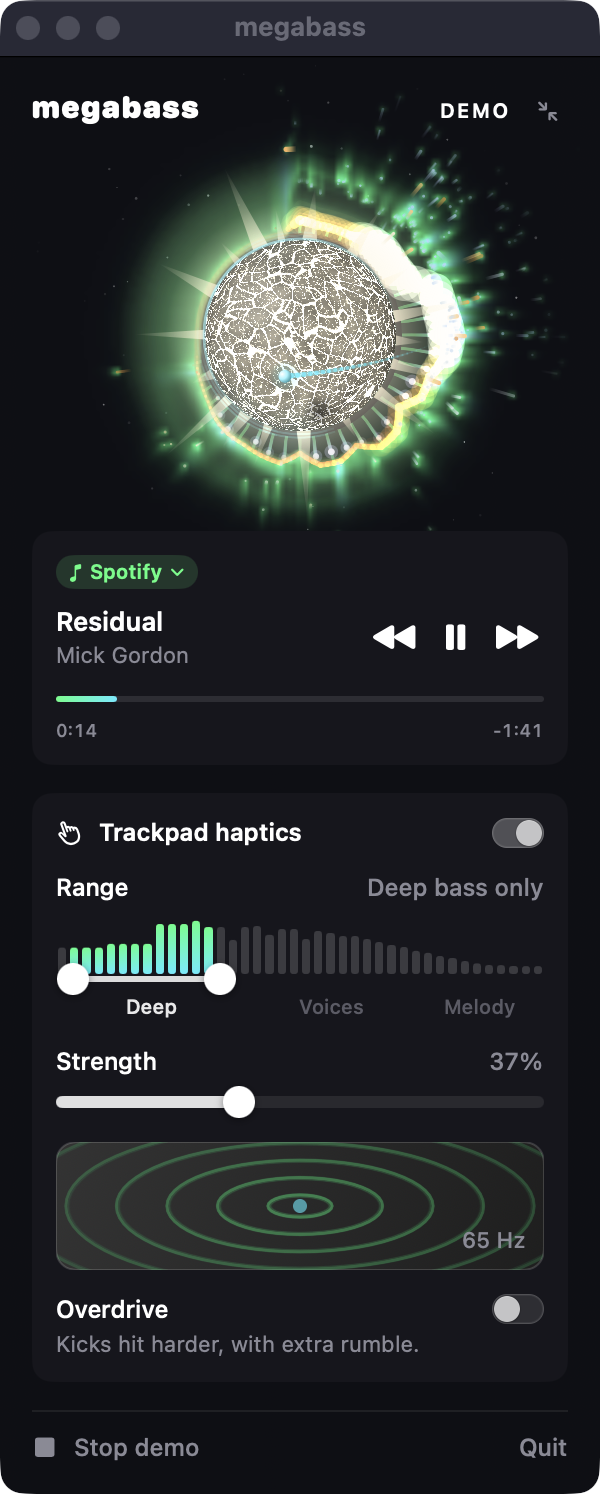
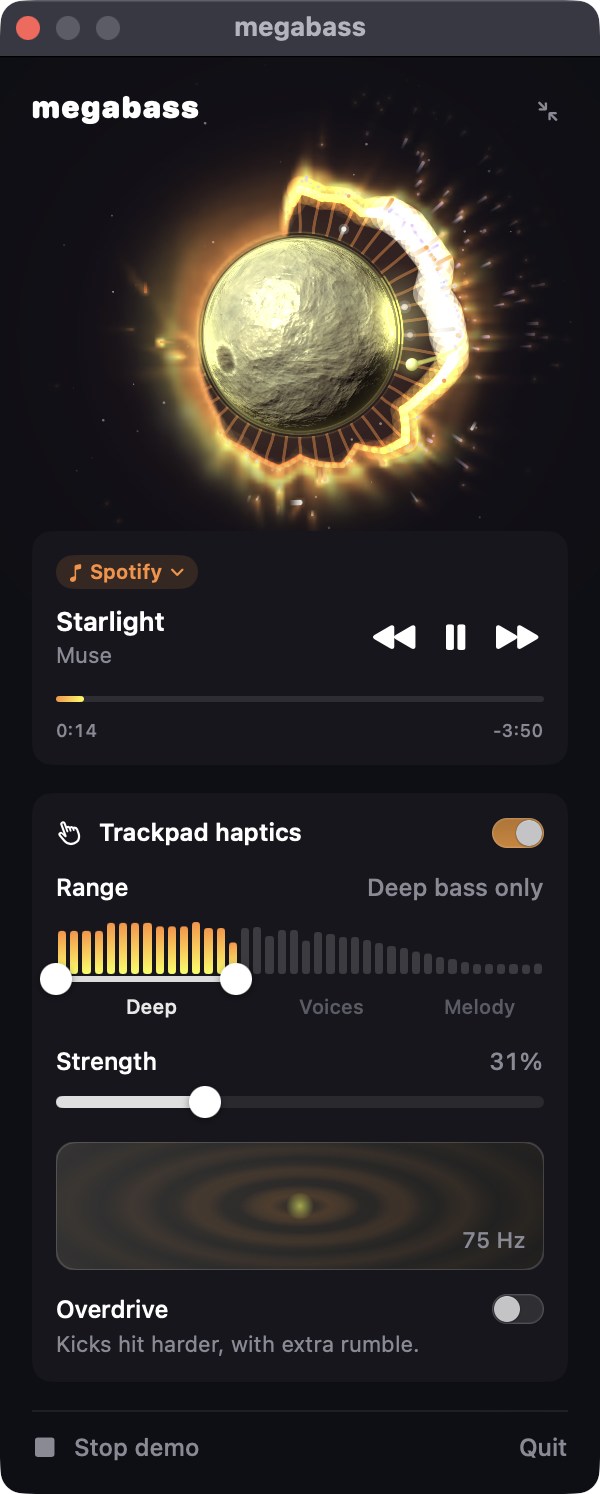
Headbang on the beat: the planet nods toward you at the song's tempo
- Tempo: kick onsets feed a beat clock (median of folded gaps for coarse
  moves, phase-locked loop for the fine tempo); syncopated half-beat kicks
  count as on the grid, so the lock holds (demo: 97-101 BPM vs 100).
- Nod: each beat tips the planet's top toward the viewer on a damped spring
  (pitch in the sphere map, harder with Overdrive); rings and moon orbits
  open with it. Side rock across two beats and a small dip stay.
- Spin no longer jerks: steady longitude, 0.6-2.6x base speed, ~4 s inertia.
- Bass mode now marks kicks in the voice status, so kickPulse (headbang,
  ring ripples, moon shocks) works without Overdrive.
- Nod-only map rebuilds keep buffers, lighting and normals.

diff --git a/Sources/MegaBass/PlanetView.swift b/Sources/MegaBass/PlanetView.swift
@@ -2,9 +2,9 @@ import AppKit
 import MegaBassCore
 import SwiftUI
 
-/// The planet's rotation: a heavy body. Its speed follows the song's intensity with inertia; with
-/// Overdrive on, every kick makes it headbang (a forward nod on a damped spring). Hovering turns
-/// the power icon to face you.
+/// The planet's rotation: a heavy body. Its speed follows the song's intensity with slow inertia.
+/// On every beat it headbangs: the top tips toward you on a damped spring (harder with Overdrive),
+/// while the spin itself stays steady. Hovering turns the power icon to face you.
 @MainActor
 final class PlanetSpin {
     static let shared = PlanetSpin()
@@ -15,13 +15,24 @@ final class PlanetSpin {
     private var nod = 0.0, nodV = 0.0, lastKick = 0.0
     private var last = 0.0
 
+    // Beat tracking: tempo from kick intervals (folded into 60-180 BPM, median), and a beat clock
+    // phase-locked to kicks that land near a predicted beat, so it keeps time through weak kicks.
+    private(set) var bpm = 0.0
+    private var period = 0.5, beatPhase = 0.0, beatCount = 0
+    private var kickTimes: [Double] = []
+    /// Share of recent kicks off the beat grid (beats and half beats); high means the tempo is lost.
+    private var miss = 1.0
+    /// Headbang body motion, applied to the whole planet system: sideways rock and a downward bob.
+    private(set) var wobble = 0.0, bob = 0.0
+    private var bobV = 0.0
+
     /// Advances the spin. `rate` is the planet's own base speed; `energy` the song's loudness;
     /// `kick` the kick pulse; `headbang` whether Overdrive is on. Returns the angle to draw.
     func advance(_ t: Double, on: Bool, rate: Double = 0.2, energy: Double = 0, kick: Double = 0, headbang: Bool = false) -> Double {
         let dt = last == 0 ? 0 : min(0.1, t - last)
         last = t
         if !on {
-            lon = 0; omega = rate; nod = 0; nodV = 0                // off: icon faces you, easy to find
+            lon = 0; omega = rate; nod = 0; nodV = 0; wobble = 0; bob = 0; bobV = 0   // off: still, icon faces you
             return 0
         }
         if hover {
@@ -30,22 +41,68 @@ final class PlanetSpin {
             if abs(target - lon) < 0.002 { lon = target }
             omega = rate
             nod *= exp(-dt * 8)
-            return lon + nod
+            return lon
         }
-        // Heavy: speed eases toward 0.6-4x the base rate over ~2.5 s.
-        let target = rate * (0.6 + min(1, energy * 2.8) * 3.4)
-        omega += (target - omega) * min(1, dt / 2.5)
+        // Heavy: speed eases toward 0.6-2.6x the base rate over ~4 s.
+        let target = rate * (0.6 + min(1, energy * 2.8) * 2.0)
+        omega += (target - omega) * min(1, dt / 4)
         lon += omega * dt
-        // Headbang: a kick kicks the nod forward; a stiff, damped spring brings it back.
-        if headbang && kick > lastKick + 0.35 { nodV += 2.6 * kick }
+        // Tempo: intervals between kicks, folded into 60-180 BPM, median of the last 12.
+        let isKick = kick > lastKick + 0.35
         lastKick = kick
+        if isKick {
+            kickTimes.append(t)
+            if kickTimes.count > 13 { kickTimes.removeFirst() }
+            let gaps = zip(kickTimes.dropFirst(), kickTimes).map { $0 - $1 }.map { g -> Double in
+                var x = g
+                while x < 0.333 { x *= 2 }
+                while x > 1.0 { x /= 2 }
+                return x
+            }
+            // Phase lock: pull the beat clock toward a kick near a predicted beat, and trim the
+            // period by the same error so the clock settles on the true tempo. Kicks on the
+            // half beat (syncopation) still count as on the grid.
+            let err = beatPhase - beatPhase.rounded()
+            let offGrid = min(abs(err), abs(0.5 - abs(err))) > 0.12
+            miss += ((offGrid ? 1 : 0) - miss) * 0.15
+            // The median retunes only while the grid is lost: syncopated gaps (1.5 beats) bias it.
+            if gaps.count >= 3, bpm == 0 || miss > 0.5 {
+                let med = gaps.sorted()[gaps.count / 2]
+                if bpm == 0 || abs(med - period) > period * 0.08 { period += (med - period) * 0.3 }
+            }
+            if abs(err) < 0.25 {
+                beatPhase -= err * 0.5
+                if bpm > 0 { period = min(1, max(0.333, period * (1 + err * 0.1))) }
+            }
+            if gaps.count >= 3 { bpm = 60 / period }
+        }
+        // Beat clock; on each beat the planet headbangs (Overdrive doubles it).
+        let before = beatPhase
+        beatPhase += dt / max(0.333, period)
+        let loud = min(1, energy * 2.5)
+        if bpm > 0, floor(beatPhase) > floor(before), loud > 0.08 {
+            beatCount += 1
+            let hit = (0.9 + loud * 1.6) * (headbang ? 1.6 : 1)
+            nodV += hit
+            bobV += 22 * loud
+        }
         nodV += (-70 * nod - 9 * nodV) * dt
         nod += nodV * dt
-        return lon + nod
+        // Bob: a quick dip on the beat, sprung back up. Rock: side to side across two beats.
+        bobV += (-180 * bob - 16 * bobV) * dt
+        bob += bobV * dt
+        let rock = bpm > 0 ? sin(.pi * beatPhase) * 0.06 * loud : 0
+        wobble += (rock - wobble) * min(1, dt * 8)
+        return lon
     }
 
+    /// The headbang nod (radians): positive tips the planet's top toward you.
+    var pitch: Double { max(-0.45, min(0.45, nod)) }
+    /// How open the ring plane looks (minor/major axis), widening as the planet nods toward you.
+    var ringOpen: Double { max(0.05, min(0.62, sin(0.2424 + pitch))) }
+
     /// How far the surface turns in one frame, as a fraction of a full turn (for motion blur).
-    var blurTurn: Double { (abs(omega) + abs(nodV)) / 30 / (2 * .pi) }
+    var blurTurn: Double { abs(omega) / 30 / (2 * .pi) }
 }
 
 /// The power button as a small gas giant: banded surface in the station's palette that flows like
@@ -103,6 +160,15 @@ struct PlanetView: View, Equatable {
         let on = engine.enabled || alwaysOn
         _ = WavePhase.shared.advance(t: t, hz: engine.hapticHz)          // rings pulse with the trackpad wave
         OrbitSim.shared.step(t: t, kick: on ? engine.kickPulse : 0, levels: on ? RingSim.shared.levels : [], R: Double(radius), on: on)
+        // Headbang body motion: the whole system (planet, rings, moons) rocks and bobs as one.
+        var ctx = ctx
+        if !alwaysOn {
+            let s = PlanetSpin.shared
+            let c = CGPoint(x: size.width / 2, y: size.height / 2)
+            ctx.translateBy(x: c.x, y: c.y + s.bob)
+            ctx.rotate(by: .radians(s.wobble))
+            ctx.translateBy(x: -c.x, y: -c.y)
+        }
         guard !alwaysOn, let (from, p) = PlanetMorph.shared.update(to: style, t: t) else {
             drawPlanet(ctx, size: size, t: t, st: style)
             return
@@ -188,7 +254,7 @@ struct PlanetView: View, Equatable {
                                                   rim: heat, grade: st.kind == .star || !on ? nil : (hot, heat),
                                                   flares: on ? RingSim.shared.planetLights() : [], flareColor: mix(heat, .white, 0.35),
                                                   icon: true, sun: Float(sunlight(on: on)), iconColor: brightest(hot, heat),
-                                                  blur: Float(PlanetSpin.shared.blurTurn)) {
+                                                  blur: Float(PlanetSpin.shared.blurTurn), pitch: PlanetSpin.shared.pitch) {
             var disc2 = ctx
             disc2.clip(to: disc)
             disc2.draw(Image(decorative: img, scale: 2), in: CGRect(x: c.x - R, y: c.y - R, width: R * 2, height: R * 2))
@@ -342,13 +408,13 @@ struct PlanetView: View, Equatable {
             sh.rotate(by: .radians(planeTilt(st)))
             let inner = R * 1.18, outer = R * (1.18 + st.ringWidth)
             var band = Path()
-            band.addEllipse(in: CGRect(x: -outer, y: -outer * 0.24, width: outer * 2, height: outer * 0.48))
-            band.addEllipse(in: CGRect(x: -inner, y: -inner * 0.24, width: inner * 2, height: inner * 0.48))
+            band.addEllipse(in: CGRect(x: -outer, y: -outer * ringOpen, width: outer * 2, height: outer * ringOpen * 2))
+            band.addEllipse(in: CGRect(x: -inner, y: -inner * ringOpen, width: inner * 2, height: inner * ringOpen * 2))
             if st.ringGap >= 0 {
                 let g0 = inner + (outer - inner) * Double(st.ringGap) / Double(st.ringLines - 1)
                 let g1 = inner + (outer - inner) * Double(st.ringGap + 1) / Double(st.ringLines - 1)
-                band.addEllipse(in: CGRect(x: -g1, y: -g1 * 0.24, width: g1 * 2, height: g1 * 0.48))
-                band.addEllipse(in: CGRect(x: -g0, y: -g0 * 0.24, width: g0 * 2, height: g0 * 0.48))
+                band.addEllipse(in: CGRect(x: -g1, y: -g1 * ringOpen, width: g1 * 2, height: g1 * ringOpen * 2))
+                band.addEllipse(in: CGRect(x: -g0, y: -g0 * ringOpen, width: g0 * 2, height: g0 * ringOpen * 2))
             }
             sh.fill(band, with: .color(.black.opacity(on ? 0.42 : 0.22)), style: FillStyle(eoFill: true))
         }
@@ -405,6 +471,8 @@ struct PlanetView: View, Equatable {
 
     /// The orbital plane: the ring's tilt, or a gentler version of the axial tilt without rings.
     private func planeTilt(_ st: PlanetStyle) -> Double { st.rings ? st.ringTilt : st.tilt * 0.6 }
+    /// The ring plane's opening, following the headbang nod.
+    private var ringOpen: Double { PlanetSpin.shared.ringOpen }
 
     /// The moons on this planet: kick moon always, shepherds on ringed planets.
     private struct Moon { var angle: Double; var radius: Double; var size: Double; var glow: Double; var trail: [OrbitSim.Sample]; var springy = false }
@@ -419,7 +487,7 @@ struct PlanetView: View, Equatable {
     }
     /// A point on the orbital plane in screen space (relative to the planet centre).
     private func moonPoint(_ m: Moon, tilt: Double) -> CGPoint {
-        let x = cos(m.angle) * m.radius, y = sin(m.angle) * m.radius * 0.24
+        let x = cos(m.angle) * m.radius, y = sin(m.angle) * m.radius * ringOpen
         return CGPoint(x: x * cos(tilt) - y * sin(tilt), y: x * sin(tilt) + y * cos(tilt))
     }
 
@@ -441,7 +509,7 @@ struct PlanetView: View, Equatable {
             let bump = on && since >= 0 && since < 0.07 ? sin(.pi * since / 0.07) : 0
             // Haptic waves: brightness travels outward across the lines with the trackpad's soundwave.
             let pulse = on ? (0.5 + 0.5 * sin(2 * .pi * (x * 1.6 - wave.phase))) * min(1, (orbit.groups[0] + 0.15) * 1.6) : 0
-            let rx = (inner + (outer - inner) * x) * (1 + 0.03 * bump), ry = rx * 0.24
+            let rx = (inner + (outer - inner) * x) * (1 + 0.03 * bump), ry = rx * ringOpen
             let base = on ? 0.3 + 0.6 * lv : 0.14
             let alpha = min(1, base * (0.55 + 0.45 * pulse) + 0.5 * bump) * (front ? 1 : 0.6)
             let tint = mix(color, .white, min(0.6, 0.25 * pulse + 0.35 * bump))
@@ -453,7 +521,7 @@ struct PlanetView: View, Equatable {
             for w in orbit.wakes {
                 let age = orbit.time - w.at
                 guard age < 0.3 else { continue }
-                let rx = w.outer ? outer : inner, ry = rx * 0.24
+                let rx = w.outer ? outer : inner, ry = rx * ringOpen
                 var arc = Path()
                 for j in 0...12 {
                     let a = w.angle - 0.52 * Double(j) / 12
@@ -486,7 +554,7 @@ struct PlanetView: View, Equatable {
                         let ang = a.angle + (b.angle - a.angle) * f, rad = ra + (rb - ra) * f
                         let age = orbit.time - (a.t + (b.t - a.t) * f)
                         guard age < 0.9 else { continue }
-                        pts.append((CGPoint(x: cos(ang) * rad, y: sin(ang) * rad * 0.24), age / 0.9, sin(ang) >= 0))
+                        pts.append((CGPoint(x: cos(ang) * rad, y: sin(ang) * rad * ringOpen), age / 0.9, sin(ang) >= 0))
                     }
                 }
                 let tint = mix(color, .white, orbit.speed * 0.5)
@@ -508,7 +576,7 @@ struct PlanetView: View, Equatable {
                 }
             }
             guard (sin(m.angle) >= 0) == front else { continue }
-            let p = CGPoint(x: cos(m.angle) * m.radius, y: sin(m.angle) * m.radius * 0.24)
+            let p = CGPoint(x: cos(m.angle) * m.radius, y: sin(m.angle) * m.radius * ringOpen)
             // Faster moons shine brighter: whiter core, bigger, stronger halo.
             let fast = on ? orbit.speed : 0
             let glow = on ? m.glow + fast * 0.9 : 0.15

diff --git a/Sources/MegaBass/PlanetTexture.swift b/Sources/MegaBass/PlanetTexture.swift
@@ -259,6 +259,7 @@ final class PlanetTextures {
     }
     private var pixels: [UInt32] = []
     private var side = 0
+    private var mapTilt = Double.nan
 
     private static func rgb(_ c: Color) -> SIMD3<Float> {
         let n = NSColor(c).usingColorSpace(.sRGB) ?? .gray
@@ -309,10 +310,11 @@ final class PlanetTextures {
     func render(_ tex: PlanetTexture, radius R: Double, tilt: Double, spin: Double, on: Bool,
                 rim rimColor: Color = .white, grade: (Color, Color)? = nil,
                 flares: [(th: Double, power: Double)] = [], flareColor: Color = .white, icon: Bool = false,
-                sun: Float = 1, iconColor: Color = .white, blur: Float = 0) -> CGImage? {
+                sun: Float = 1, iconColor: Color = .white, blur: Float = 0, pitch: Double = 0) -> CGImage? {
         let n = Int(R * 4)                                   // diameter at 2x
-        let key = "\(n)|\(tilt)"
-        if key != mapKey { buildMap(n: n, tilt: tilt); mapKey = key }
+        let q = (pitch / 0.004).rounded()                    // the map rebuilds only while the nod moves
+        let key = "\(n)|\(tilt)|\(q)"
+        if key != mapKey { buildMap(n: n, tilt: tilt, pitch: q * 0.004); mapKey = key }
         let W = PlanetTexture.W
         // Minus spin: the surface turns rightward, the same way as the power icon.
         let shift = -Float(spin / (2 * .pi)) * Float(W)
@@ -440,16 +442,21 @@ final class PlanetTextures {
                        provider: provider, decode: nil, shouldInterpolate: true, intent: .defaultIntent)
     }
 
-    private func buildMap(n: Int, tilt: Double) {
-        side = n
-        latIdx = .init(repeating: 0, count: n * n); lonBase = .init(repeating: 0, count: n * n)
-        light = .init(repeating: 0, count: n * n); inside = .init(repeating: false, count: n * n)
-        normal = .init(repeating: .zero, count: n * n); east = .init(repeating: .zero, count: n * n)
-        north = .init(repeating: .zero, count: n * n); cosLat = .init(repeating: 1, count: n * n)
-        latF = .init(repeating: 0, count: n * n)
-        pixels = .init(repeating: 0, count: n * n)
+    private func buildMap(n: Int, tilt: Double, pitch: Double = 0) {
+        // A nod alone (same size and tilt) keeps the buffers, the lighting and the normals.
+        let fresh = n != side || tilt != mapTilt || latIdx.count != n * n
+        side = n; mapTilt = tilt
+        if fresh {
+            latIdx = .init(repeating: 0, count: n * n); lonBase = .init(repeating: 0, count: n * n)
+            light = .init(repeating: 0, count: n * n); inside = .init(repeating: false, count: n * n)
+            normal = .init(repeating: .zero, count: n * n); east = .init(repeating: .zero, count: n * n)
+            north = .init(repeating: .zero, count: n * n); cosLat = .init(repeating: 1, count: n * n)
+            latF = .init(repeating: 0, count: n * n)
+            pixels = .init(repeating: 0, count: n * n)
+        }
         let L = simd_normalize(SIMD3<Float>(-0.45, -0.5, 0.74))          // light from top-left, toward the viewer
         let ct = Float(cos(-tilt)), stl = Float(sin(-tilt))
+        let cp = Float(cos(pitch)), sp = Float(sin(pitch))
         for y in 0..<n {
             for x in 0..<n {
                 let nx = (Float(x) + 0.5) / Float(n) * 2 - 1, ny = (Float(y) + 0.5) / Float(n) * 2 - 1
@@ -458,19 +465,26 @@ final class PlanetTextures {
                 guard d2 <= 1 else { continue }
                 inside[i] = true
                 let z = sqrt(1 - d2)
-                // Undo the axial tilt (rotate around the view axis), then read latitude/longitude.
-                let tx = nx * ct - ny * stl, ty = nx * stl + ny * ct
+                // Nod: tip the top toward the viewer (around the screen's x axis). Then undo the
+                // axial tilt (around the view axis) and read latitude/longitude.
+                let py = ny * cp - z * sp, pz = ny * sp + z * cp
+                let tx = nx * ct - py * stl, ty = nx * stl + py * ct
                 let lat = asin(max(-1, min(1, -ty)))
-                let lon = atan2(tx, z)
+                let lon = atan2(tx, pz)
                 latIdx[i] = Int32(max(0, min(Float(PlanetTexture.H - 1), (0.5 - lat / .pi) * Float(PlanetTexture.H))))
                 lonBase[i] = (lon / (2 * .pi) + 1) * Float(PlanetTexture.W)
-                let lam = max(0, simd_dot(SIMD3(nx, ny, z), L))
-                light[i] = 0.1 + 0.95 * pow(lam, 0.8)
-                // Surface frame in view space: normal, east (+longitude), north (+latitude).
-                normal[i] = SIMD3(nx, ny, z)
+                if fresh {
+                    let lam = max(0, simd_dot(SIMD3(nx, ny, z), L))
+                    light[i] = 0.1 + 0.95 * pow(lam, 0.8)
+                    normal[i] = SIMD3(nx, ny, z)
+                }
+                // Surface frame in view space: east (+longitude), north (+latitude).
                 let sl = sin(lon), cl = cos(lon), sa = sin(lat), ca = cos(lat)
                 let eP = SIMD3<Float>(cl, 0, -sl), nP = SIMD3<Float>(-sa * sl, -ca, -sa * cl)
-                func back(_ v: SIMD3<Float>) -> SIMD3<Float> { SIMD3(v.x * ct + v.y * stl, -v.x * stl + v.y * ct, v.z) }
+                func back(_ v: SIMD3<Float>) -> SIMD3<Float> {
+                    let yp = -v.x * stl + v.y * ct
+                    return SIMD3(v.x * ct + v.y * stl, yp * cp + v.z * sp, -yp * sp + v.z * cp)
+                }
                 east[i] = back(eP); north[i] = back(nP)
                 cosLat[i] = ca
                 latF[i] = lat

diff --git a/Sources/MegaBassCore/HapticVoice.swift b/Sources/MegaBassCore/HapticVoice.swift
@@ -246,6 +246,8 @@ public final class HapticVoice {
         let next = cycles.first
         let intensity = _intensity, delay = _delay, drive = Double(_overdrive), floorHz = _rumbleHz
         // Overdrive: kicks due now become thumps riding inside the bass cycles.
+        // Kicks due now also mark the status, so the visuals (planet headbang, ring ripples) see them.
+        if pendingKicks.contains(where: { $0.t <= due && due - $0.t < 0.1 }) { _status.kickAt = now }
         if drive > 0 {
             while let k = pendingKicks.first, k.t <= due {
                 pendingKicks.removeFirst()
